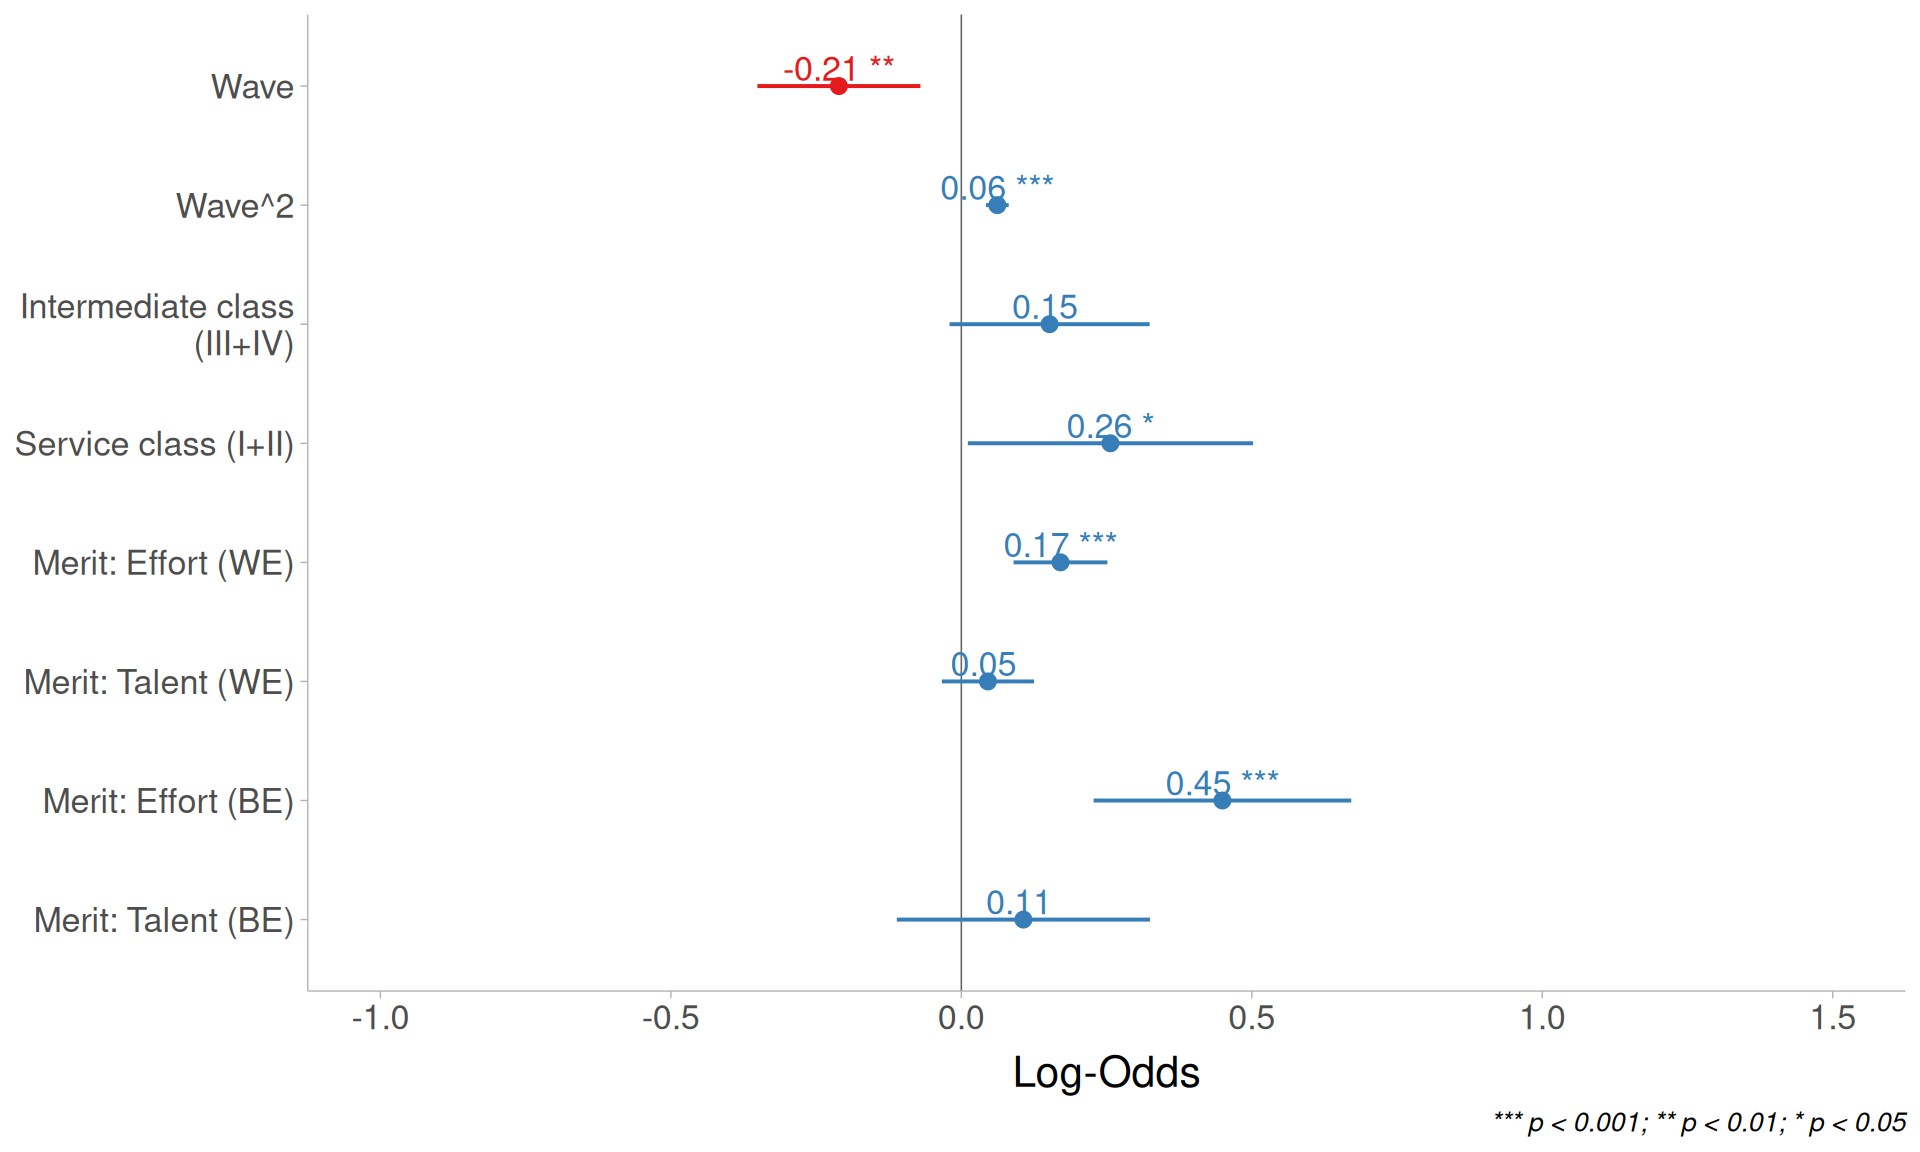
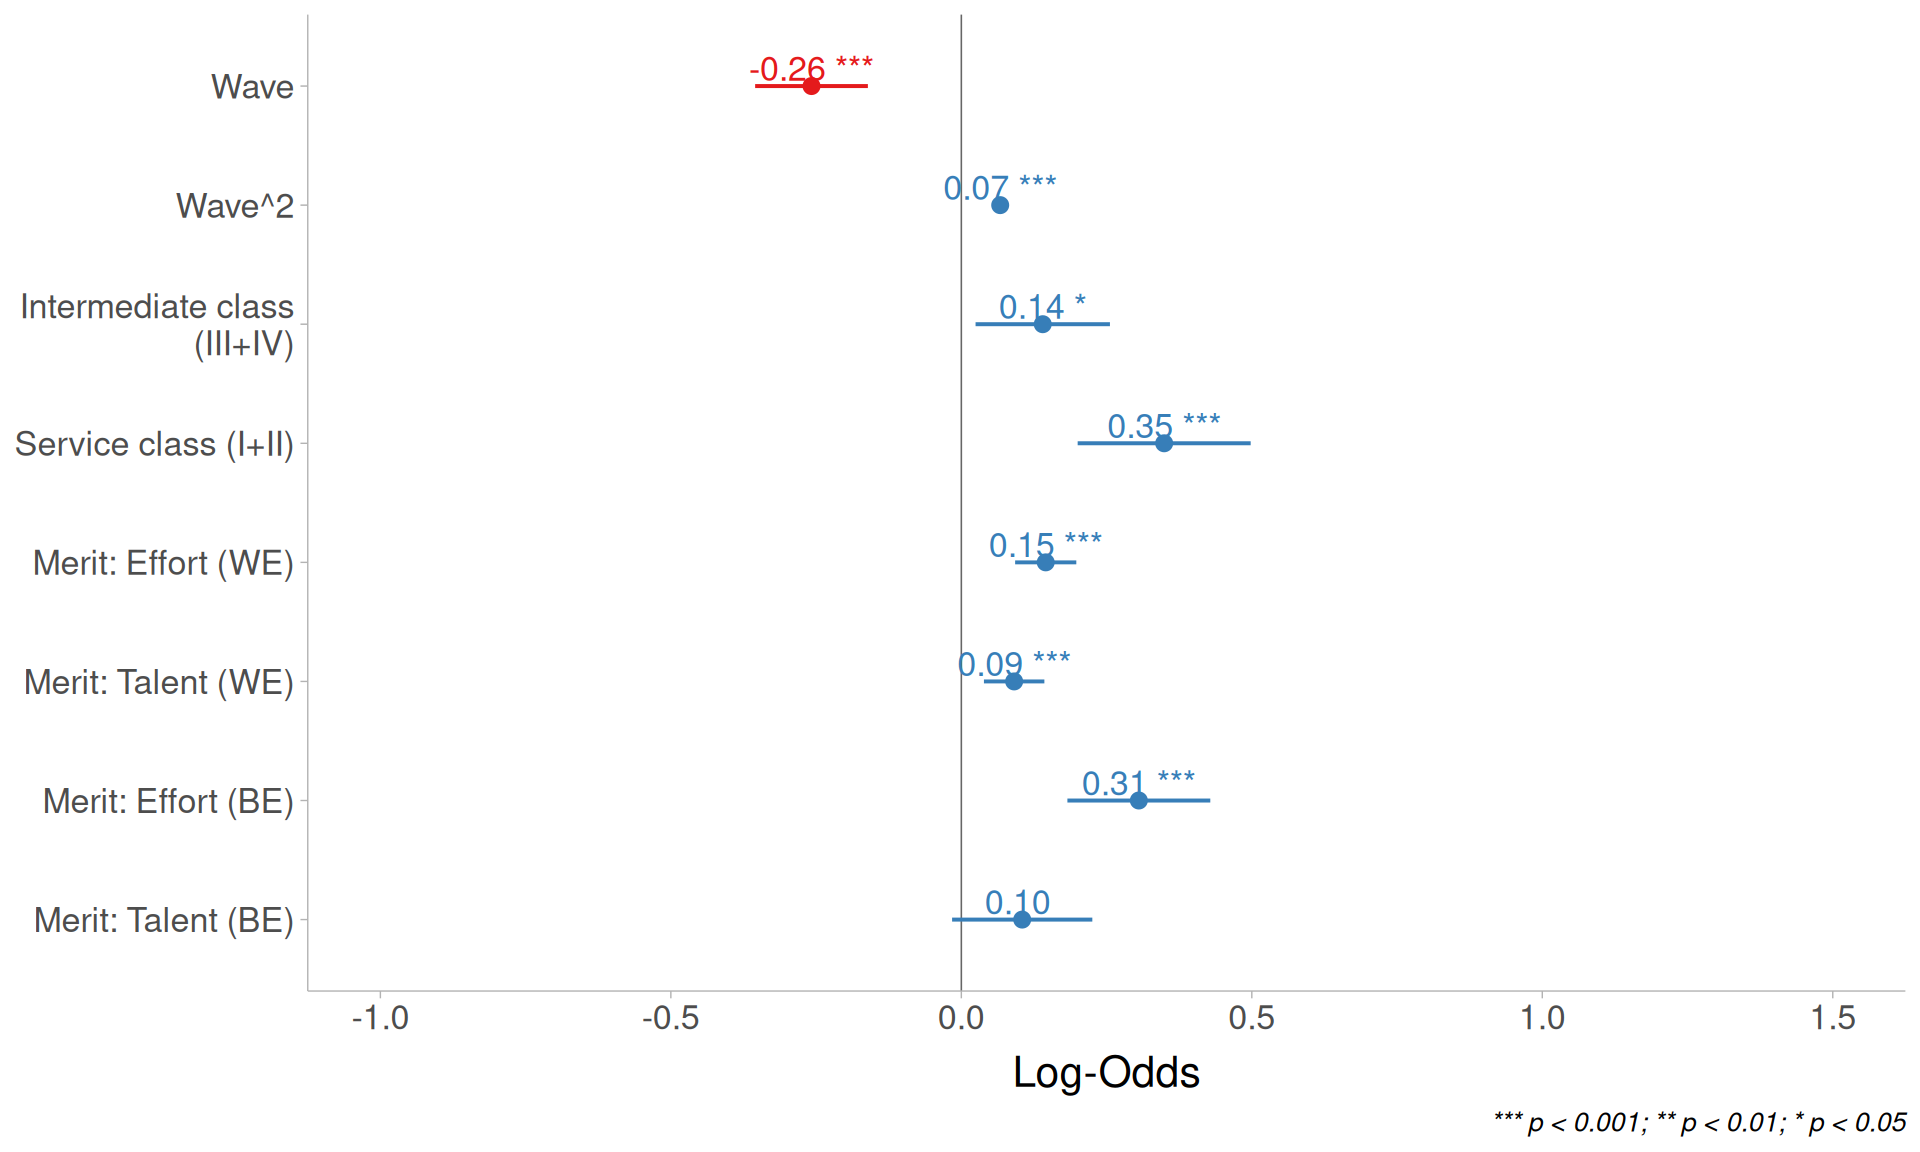
update -> shao comodificación

diff --git a/presentations/simposioUSACH2025/USACH2025.html b/presentations/simposioUSACH2025/USACH2025.html
@@ -240,22 +240,22 @@
 </ul>
 </div>
 </section>
-<section id="preferencias-por-la-comodificación-de-servicios" class="slide level2">
-<h2>Preferencias por la comodificación de servicios</h2>
+<section id="factores-asociados-a-la-justicia-de-mercado" class="slide level2">
+<h2>Factores asociados a la justicia de mercado</h2>
 <div class="columns">
 <div class="column highlight-last" style="font-size: 110%;">
-<h3 id="contextual">Contextual</h3>
-<ul>
-<li class="fragment">Gasto social <span class="citation" data-cites="immergut_it_2020 busemeyer_skills_2014 busemeyer_welfare_2020">(<a href="#/referencias" role="doc-biblioref" onclick="">Busemeyer, 2014</a>; <a href="#/referencias" role="doc-biblioref" onclick="">Busemeyer &amp; Iversen, 2020</a>; <a href="#/referencias" role="doc-biblioref" onclick="">Immergut &amp; Schneider, 2020</a>)</span></li>
-<li class="fragment">Desigualdad económica <span class="citation" data-cites="koos_moral_2019">(<a href="#/referencias" role="doc-biblioref" onclick="">Koos &amp; Sachweh, 2019</a>)</span></li>
-<li class="fragment">Nivel de privatización de servicios y regulación del mercado <span class="citation" data-cites="lindh_public_2015 koos_moral_2019">(<a href="#/referencias" role="doc-biblioref" onclick="">Koos &amp; Sachweh, 2019</a>; <a href="#/referencias" role="doc-biblioref" onclick="">Lindh, 2015</a>)</span></li>
-</ul>
-</div><div class="column highlight-last" style="font-size: 110%;">
 <h3 id="individual">Individual</h3>
 <ul>
 <li class="fragment">Estatus socioeconómico -ingresos, educación y ocupación- <span class="citation" data-cites="lindh_public_2015 koos_moral_2019 busemeyer_welfare_2020 svallfors_political_2007">(<a href="#/referencias" role="doc-biblioref" onclick="">Busemeyer &amp; Iversen, 2020</a>; <a href="#/referencias" role="doc-biblioref" onclick="">Koos &amp; Sachweh, 2019</a>; <a href="#/referencias" role="doc-biblioref" onclick="">Lindh, 2015</a>; <a href="#/referencias" role="doc-biblioref" onclick="">Svallfors, 2007</a>)</span></li>
 <li class="fragment">Percepciones sobre la desigualdad y meritocracia <span class="citation" data-cites="castillo_perceptions_2025">(<a href="#/referencias" role="doc-biblioref" onclick="">Castillo et&nbsp;al., 2025</a>)</span></li>
 <li class="fragment">Conservadurismo/liberalismo económico <span class="citation" data-cites="lee_fairness_2023">(<a href="#/referencias" role="doc-biblioref" onclick="">Lee &amp; Stacey, 2023</a>)</span></li>
+</ul>
+</div><div class="column highlight-last" style="font-size: 110%;">
+<h3 id="contextual">Contextual</h3>
+<ul>
+<li class="fragment">Gasto social <span class="citation" data-cites="immergut_it_2020 busemeyer_skills_2014 busemeyer_welfare_2020">(<a href="#/referencias" role="doc-biblioref" onclick="">Busemeyer, 2014</a>; <a href="#/referencias" role="doc-biblioref" onclick="">Busemeyer &amp; Iversen, 2020</a>; <a href="#/referencias" role="doc-biblioref" onclick="">Immergut &amp; Schneider, 2020</a>)</span></li>
+<li class="fragment">Desigualdad económica <span class="citation" data-cites="koos_moral_2019">(<a href="#/referencias" role="doc-biblioref" onclick="">Koos &amp; Sachweh, 2019</a>)</span></li>
+<li class="fragment">Nivel de privatización de servicios y regulación del mercado <span class="citation" data-cites="lindh_public_2015 koos_moral_2019">(<a href="#/referencias" role="doc-biblioref" onclick="">Koos &amp; Sachweh, 2019</a>; <a href="#/referencias" role="doc-biblioref" onclick="">Lindh, 2015</a>)</span></li>
 </ul>
 </div></div>
 </section>
@@ -263,22 +263,22 @@
 <h2>Este estudio</h2>
 <p><br></p>
 <div class="pull-left box-inv-5 sp-after fragment" style="font-size: 125%;">
-<p>Analizar la relación entre clase social y preferencias por la comodificación de pensiones en Chile y sus cambios en el tiempo</p>
+<p>Analizar la relación entre clase social y preferencias por la justicia de mercado en pensiones en Chile y sus cambios en el tiempo</p>
 </div>
 <p><br><br><br></p>
 <div class="pull-right box-inv-5 sp-after fragment" style="font-size: 125%;">
-<p>Examinar el rol de la meritocracia en la relación entre clase y apoyo a la comodificación de pensiones</p>
+<p>Examinar el rol de la meritocracia en la relación entre clase y preferencias por justicia de mercado en pensiones.</p>
 </div>
 </section>
 <section id="hipótesis" class="slide level2">
 <h2>Hipótesis</h2>
 <div class="highlight-last" style="font-size: 110%;">
 <ul>
-<li class="fragment"><p><span class="math inline">\(H1_ \; (\text{Between-person}):\)</span> quienes pertenecen a clases altas exhiben, en promedio, mayor apoyo a la comodificación de pensiones que quienes pertenecen a clases bajas</p></li>
-<li class="fragment"><p><span class="math inline">\(H2_{a} \; (\text{Between-person}):\)</span> las personas que perciben más meritocracia suelen mostrar mayor apoyo a la comodificación de las pensiones que quienes sostienen esas percepciones con menos fuerza</p></li>
-<li class="fragment"><p><span class="math inline">\(H2_{b} \; (\text{Within-person}):\)</span> cuando una misma persona fortalece sus percepciones meritocráticas a lo largo del tiempo, su apoyo a la comodificación de las pensiones aumenta</p></li>
-<li class="fragment"><p><span class="math inline">\(H3_{a} \; (\text{Between-person}):\)</span> la asociación positiva entre meritocracia (BE) y apoyo a la comodificación es más fuerte en clases altas</p></li>
-<li class="fragment"><p><span class="math inline">\(H3_{b} \; (\text{Within-person}):\)</span> cuando personas de clase alta incrementan sus percepciones meritocráticas a lo largo del tiempo (WE), su apoyo a la comodificación sube más que en clases bajas</p></li>
+<li class="fragment"><p><span class="math inline">\(H1_ \; (\text{Between-person}):\)</span> quienes pertenecen a clases altas exhiben, en promedio, mayor apoyo preferencia por justicia de mercado en pensiones que quienes pertenecen a clases bajas</p></li>
+<li class="fragment"><p><span class="math inline">\(H2_{a} \; (\text{Between-person}):\)</span> las personas que perciben más meritocracia manifiesta una mayor preferencia por justicia de mercado en pensiones que quienes sostienen esas percepciones con menos fuerza</p></li>
+<li class="fragment"><p><span class="math inline">\(H2_{b} \; (\text{Within-person}):\)</span> cuando una misma persona fortalece sus percepciones meritocráticas a lo largo del tiempo, su preferencia por justicia de mercado en pensiones aumenta</p></li>
+<li class="fragment"><p><span class="math inline">\(H3_{a} \; (\text{Between-person}):\)</span> la asociación positiva entre meritocracia (BE) y preferencia por justicia de mercado en pensiones es más fuerte en clases altas</p></li>
+<li class="fragment"><p><span class="math inline">\(H3_{b} \; (\text{Within-person}):\)</span> cuando personas de clase alta incrementan sus percepciones meritocráticas a lo largo del tiempo (WE), su preferencia por justicia de mercado en pensiones aumenta más que en clases bajas</p></li>
 </ul>
 </div>
 </section></section>
@@ -328,10 +328,10 @@
 <h2>Variable dependiente</h2>
 <div class="cell fig-cap-location-top" data-layout-align="center">
 <div class="cell-output-display">
-<div id="fig-desc" class="quarto-float quarto-figure quarto-figure-center" data-cap-location="top" data-fig-align="center">
+<div id="fig-desc" class="quarto-float quarto-figure quarto-figure-center" data-fig-align="center" data-cap-location="top">
 <figure class="quarto-float quarto-float-fig">
 <figcaption class="quarto-float-caption-top quarto-float-caption quarto-float-fig" id="fig-desc-caption-0ceaefa1-69ba-4598-a22c-09a6ac19f8ca">
-Figura&nbsp;1: Distribución de respuestas para las preferencias por comodificación de pensiones Chile (2016-2023)
+Figura&nbsp;1: Distribución de respuestas para las preferencias por justicia de mercado en pensiones Chile (2016-2023)
 </figcaption>
 <div aria-describedby="fig-desc-caption-0ceaefa1-69ba-4598-a22c-09a6ac19f8ca">
 <img data-src="USACH2025_files/figure-revealjs/fig-desc-1.png" class="quarto-figure quarto-figure-center" style="width:100.0%">
@@ -386,10 +386,10 @@ Figura&nbsp;1: Distribución de respuestas para las preferencias por comodificac
 <h2>Modelos</h2>
 <div class="cell fig-cap-location-top" data-layout-align="center">
 <div class="cell-output-display">
-<div id="fig-model_time" class="quarto-float quarto-figure quarto-figure-center" data-cap-location="top" data-fig-align="center">
+<div id="fig-model_time" class="quarto-float quarto-figure quarto-figure-center" data-fig-align="center" data-cap-location="top">
 <figure class="quarto-float quarto-float-fig">
 <figcaption class="quarto-float-caption-top quarto-float-caption quarto-float-fig" id="fig-model_time-caption-0ceaefa1-69ba-4598-a22c-09a6ac19f8ca">
-Figura&nbsp;2: Efectos por ola en las preferencias de comodificación de pensiones
+Figura&nbsp;2: Efectos por ola en las preferencias por justicia de mercado en pensiones
 </figcaption>
 <div aria-describedby="fig-model_time-caption-0ceaefa1-69ba-4598-a22c-09a6ac19f8ca">
 <img data-src="USACH2025_files/figure-revealjs/fig-model_time-1.png" class="quarto-figure quarto-figure-center" style="width:100.0%">
@@ -408,10 +408,10 @@ Figura&nbsp;2: Efectos por ola en las preferencias de comodificación de pension
 <h2>Modelos</h2>
 <div class="cell fig-cap-location-top" data-layout-align="center">
 <div class="cell-output-display">
-<div id="fig-model_be_we" class="quarto-float quarto-figure quarto-figure-center" data-cap-location="top" data-fig-align="center">
+<div id="fig-model_be_we" class="quarto-float quarto-figure quarto-figure-center" data-fig-align="center" data-cap-location="top">
 <figure class="quarto-float quarto-float-fig">
 <figcaption class="quarto-float-caption-top quarto-float-caption quarto-float-fig" id="fig-model_be_we-caption-0ceaefa1-69ba-4598-a22c-09a6ac19f8ca">
-Figura&nbsp;3: Efectos principales WE and BE en las preferencias de comodificación de pensiones
+Figura&nbsp;3: Efectos principales WE and BE en las preferencias por justicia de mercado en pensiones
 </figcaption>
 <div aria-describedby="fig-model_be_we-caption-0ceaefa1-69ba-4598-a22c-09a6ac19f8ca">
 <img data-src="USACH2025_files/figure-revealjs/fig-model_be_we-1.png" class="quarto-figure quarto-figure-center" style="width:100.0%">
@@ -425,10 +425,10 @@ Figura&nbsp;3: Efectos principales WE and BE en las preferencias de comodificaci
 <h2>Modelos</h2>
 <div class="cell fig-cap-location-top" data-layout-align="center">
 <div class="cell-output-display">
-<div id="fig-model_be_we_controls" class="quarto-float quarto-figure quarto-figure-center" data-cap-location="top" data-fig-align="center">
+<div id="fig-model_be_we_controls" class="quarto-float quarto-figure quarto-figure-center" data-fig-align="center" data-cap-location="top">
 <figure class="quarto-float quarto-float-fig">
 <figcaption class="quarto-float-caption-top quarto-float-caption quarto-float-fig" id="fig-model_be_we_controls-caption-0ceaefa1-69ba-4598-a22c-09a6ac19f8ca">
-Figura&nbsp;4: Efectos WE and BE en las preferencias de comodificación de pensiones con controles
+Figura&nbsp;4: Efectos WE and BE en las preferencias por justicia de mercado en pensiones con controles
 </figcaption>
 <div aria-describedby="fig-model_be_we_controls-caption-0ceaefa1-69ba-4598-a22c-09a6ac19f8ca">
 <img data-src="USACH2025_files/figure-revealjs/fig-model_be_we_controls-1.png" class="quarto-figure quarto-figure-center" style="width:100.0%">
@@ -442,10 +442,10 @@ Figura&nbsp;4: Efectos WE and BE en las preferencias de comodificación de pensi
 <h2>Modelos</h2>
 <div class="cell fig-cap-location-top" data-layout-align="center">
 <div class="cell-output-display">
-<div id="fig-model_interactions" class="quarto-float quarto-figure quarto-figure-center" data-cap-location="top" data-fig-align="center">
+<div id="fig-model_interactions" class="quarto-float quarto-figure quarto-figure-center" data-fig-align="center" data-cap-location="top">
 <figure class="quarto-float quarto-float-fig">
 <figcaption class="quarto-float-caption-top quarto-float-caption quarto-float-fig" id="fig-model_interactions-caption-0ceaefa1-69ba-4598-a22c-09a6ac19f8ca">
-Figura&nbsp;5: Interacciones por clase, meritocracia y preferencias por comodificación de pensiones
+Figura&nbsp;5: Interacciones por clase, meritocracia y preferencias por justicia de mercado en pensiones
 </figcaption>
 <div aria-describedby="fig-model_interactions-caption-0ceaefa1-69ba-4598-a22c-09a6ac19f8ca">
 <img data-src="USACH2025_files/figure-revealjs/fig-model_interactions-1.png" class="quarto-figure quarto-figure-center" style="width:100.0%">
@@ -464,9 +464,9 @@ Figura&nbsp;5: Interacciones por clase, meritocracia y preferencias por comodifi
 <h2>Discusión y conclusiones</h2>
 <div style="font-size: 120%;">
 <ol type="1">
-<li class="fragment"><p><strong>Tiempo</strong>: las preferencias por comodificación de las pensiones han aumentado en los últimos años</p></li>
-<li class="fragment"><p><strong>Clase social</strong>: clases altas muestran mayor apoyo a la comodificación que clases bajas (H1) <span class="citation" data-cites="mau_inequality_2015 otero_power_2024 lindh_public_2015">(<a href="#/referencias" role="doc-biblioref" onclick="">Lindh, 2015</a>; <a href="#/referencias" role="doc-biblioref" onclick="">Mau, 2015</a>; <a href="#/referencias" role="doc-biblioref" onclick="">Otero &amp; Mendoza, 2024</a>)</span></p></li>
-<li class="fragment"><p><strong>Meritocracia</strong>: creer que el esfuerzo es recompensado se asocia con más apoyo a la comodificación (H2a y H2b) <span class="citation" data-cites="castillo_perceptions_2025">(<a href="#/referencias" role="doc-biblioref" onclick="">Castillo et&nbsp;al., 2025</a>)</span></p></li>
+<li class="fragment"><p><strong>Tiempo</strong>: las preferencias por justicia de mercado en pensiones han aumentado en los últimos años</p></li>
+<li class="fragment"><p><strong>Clase social</strong>: clases altas muestran mayor por justicia de mercado en pensiones que clases bajas (H1) <span class="citation" data-cites="mau_inequality_2015 otero_power_2024 lindh_public_2015">(<a href="#/referencias" role="doc-biblioref" onclick="">Lindh, 2015</a>; <a href="#/referencias" role="doc-biblioref" onclick="">Mau, 2015</a>; <a href="#/referencias" role="doc-biblioref" onclick="">Otero &amp; Mendoza, 2024</a>)</span></p></li>
+<li class="fragment"><p><strong>Meritocracia</strong>: creer que el esfuerzo es recompensado se asocia con más usticia de mercado (H2a y H2b) <span class="citation" data-cites="castillo_perceptions_2025">(<a href="#/referencias" role="doc-biblioref" onclick="">Castillo et&nbsp;al., 2025</a>)</span></p></li>
 <li class="fragment"><p><strong>Clase × Meritocracia</strong>: no hay evidencia de amplificación (H3a/H3b)</p></li>
 <li class="fragment"><p><strong>Proyecciones</strong>: incorporar desocupados, informales y fuera de la FT y refinar estimación (robustez, especificaciones ordinales)</p></li>
 </ol>
